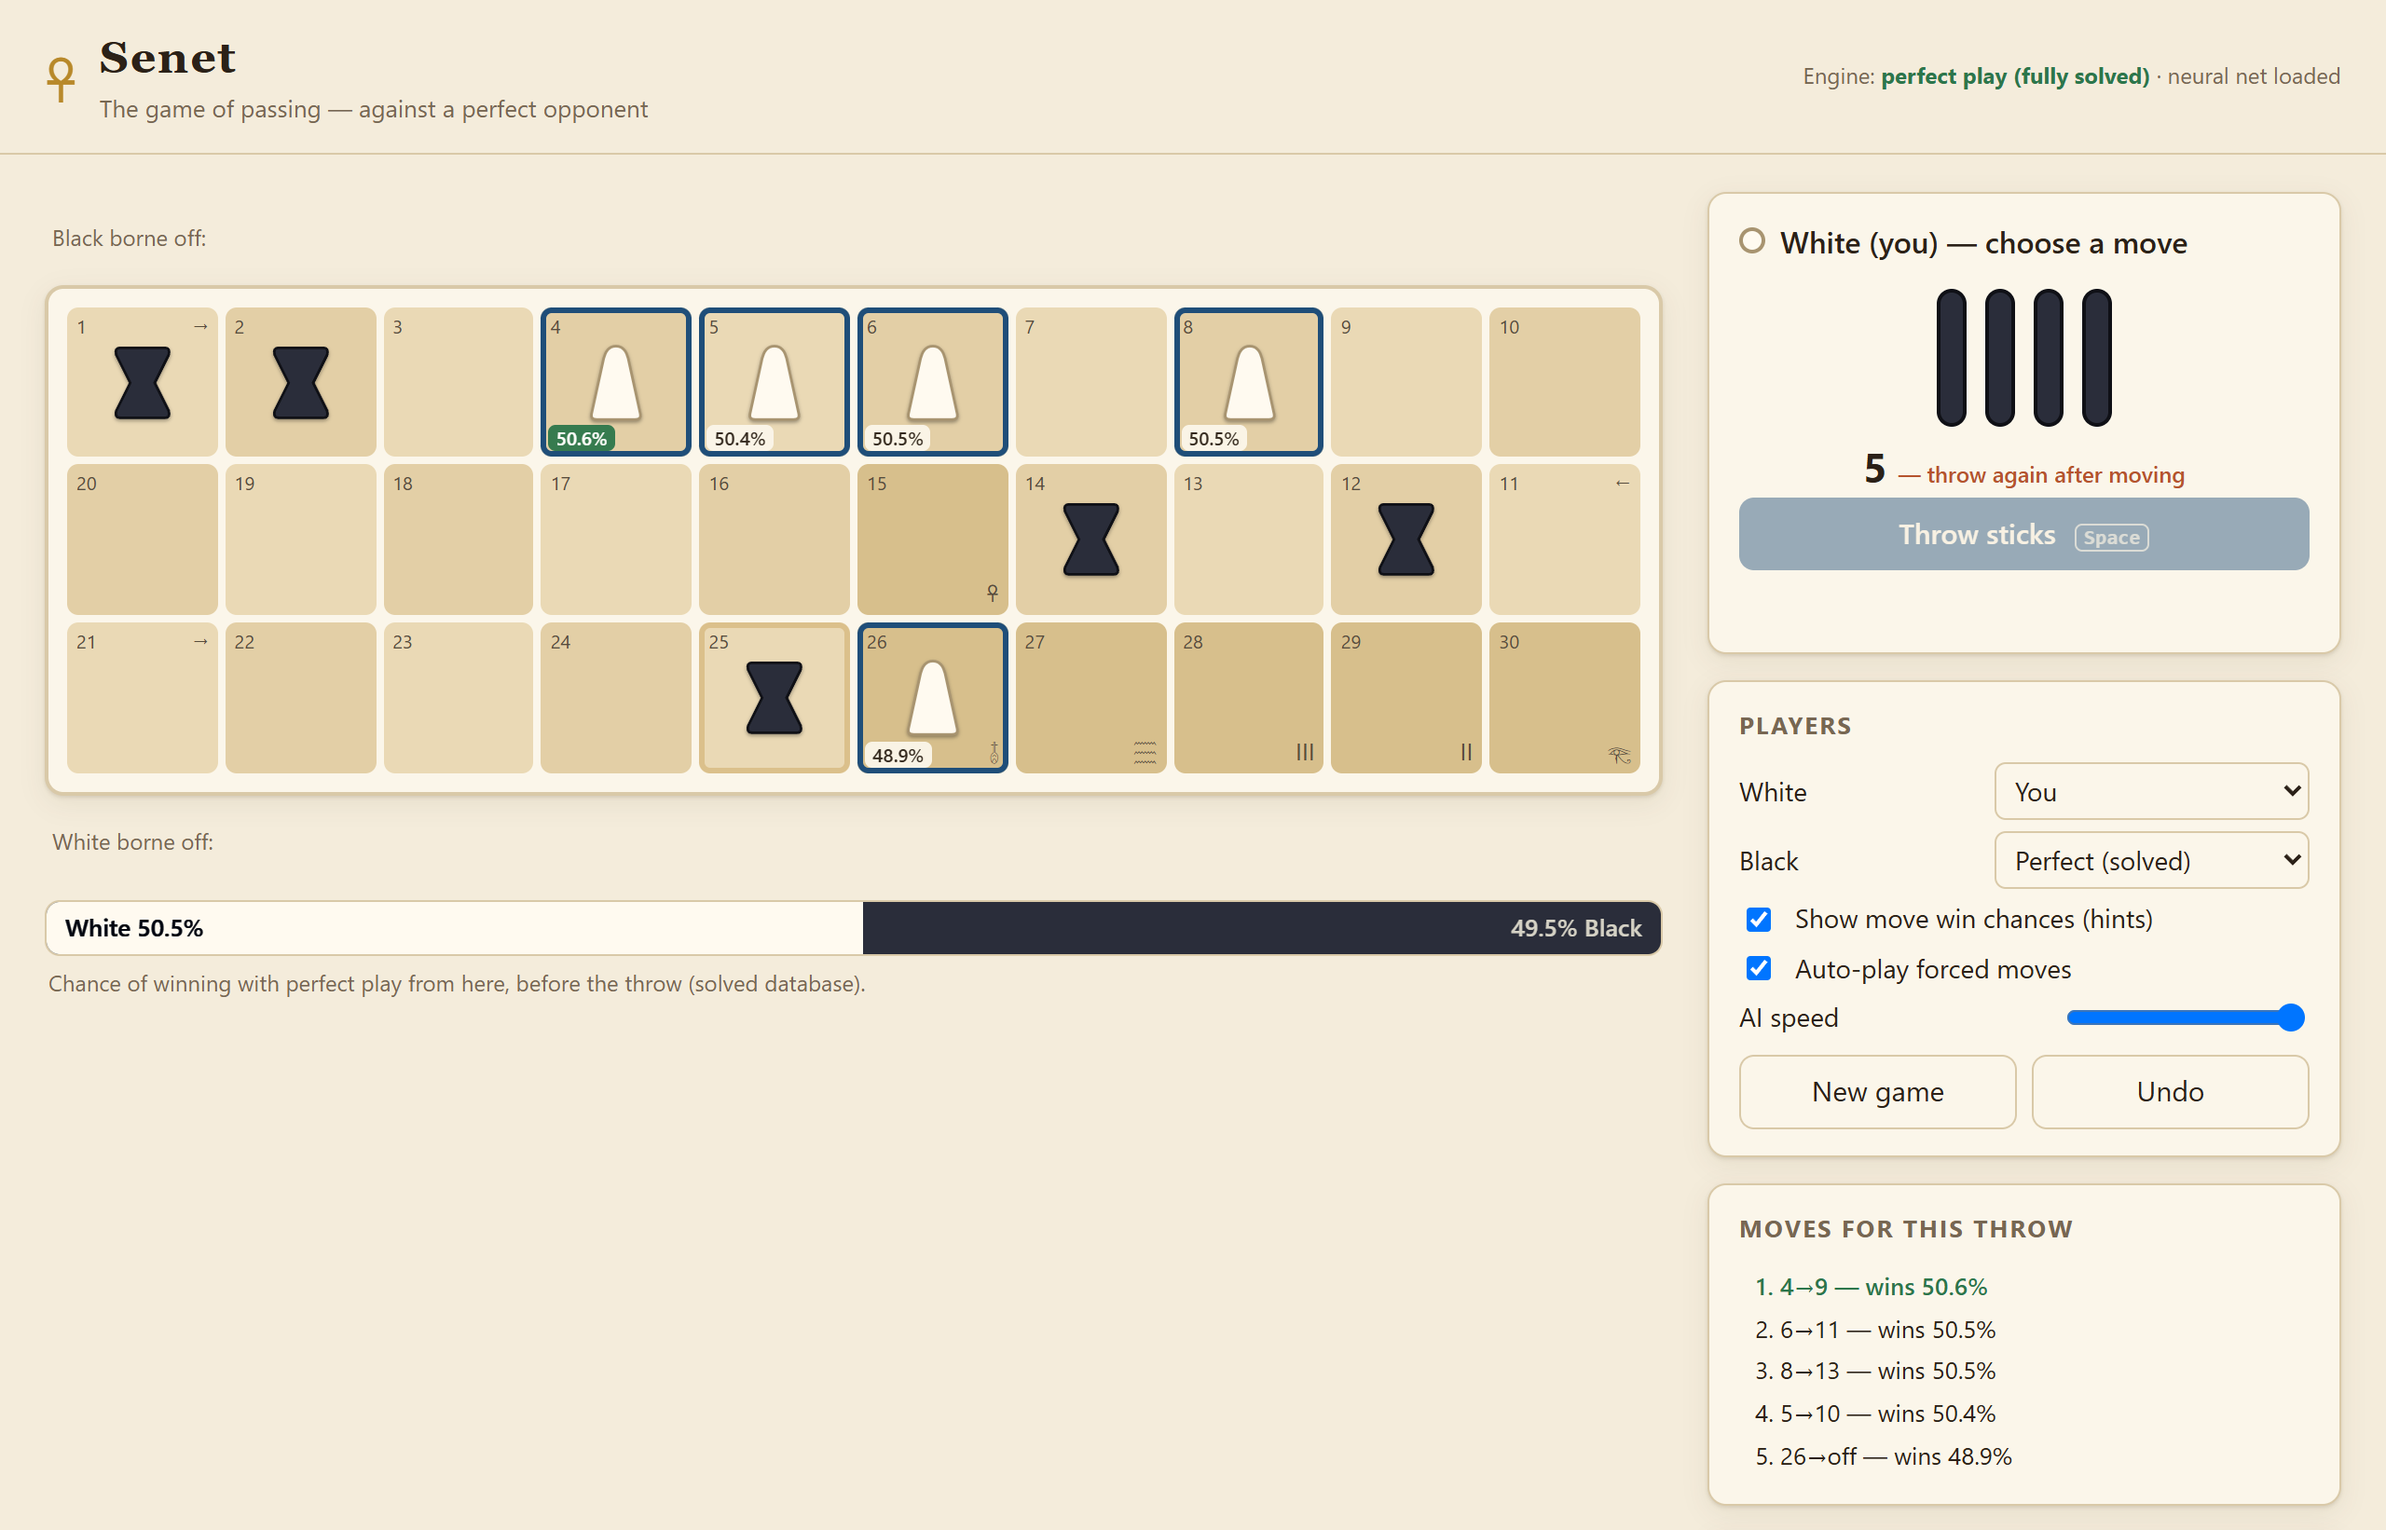
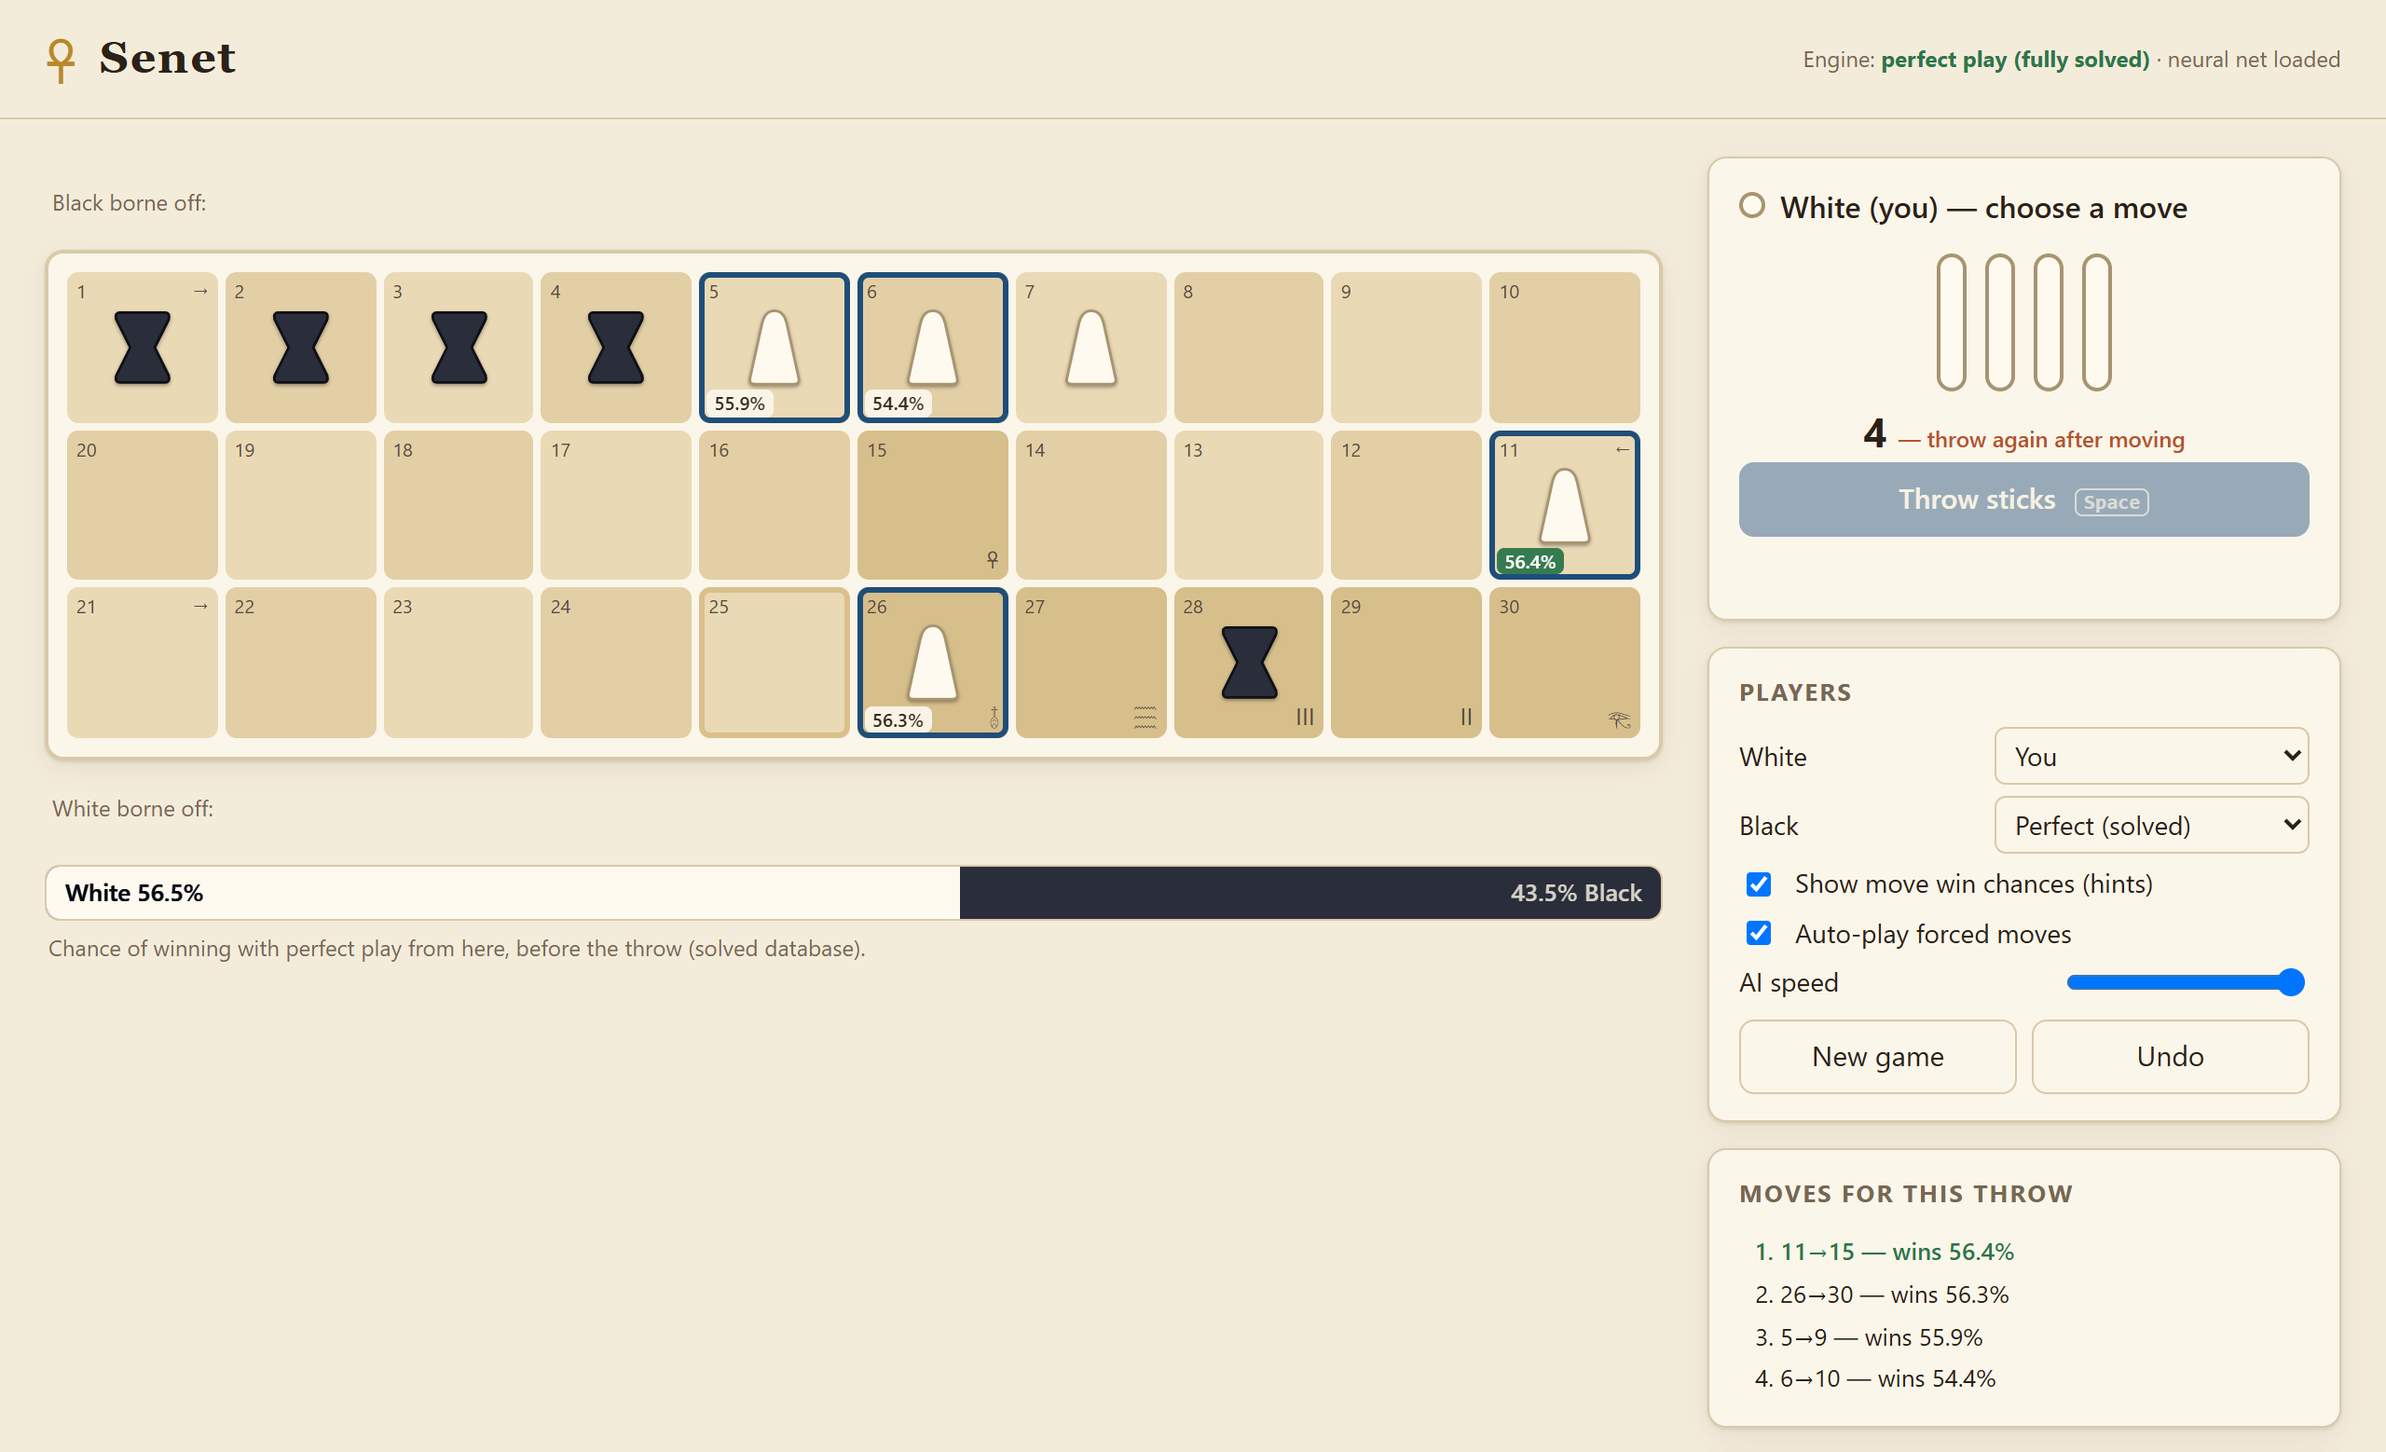
Web app: drop the header tagline and the portable page's engine label

diff --git a/web/portable/local-api.js b/web/portable/local-api.js
@@ -3,9 +3,9 @@
 // docs/API.md) for the portable single-file build: the distilled neural network (+ optional
 // 1-throw expectimax) replaces the solved database. Replies have the server's keys and errors
 // its messages (for a malformed body, only its "bad request: " prefix, and for an unknown
-// field the message without serde's position); /api/info adds `label` and `tagline` for the
-// page header. The random bot is seeded by `seed` (default 0, as on the server) but does not
-// reproduce the Rust RNG's choices. tools/check_local_api.mjs checks this against the server.
+// field the message without serde's position). The random bot is seeded by `seed` (default 0,
+// as on the server) but does not reproduce the Rust RNG's choices.
+// tools/check_local_api.mjs checks this against the server.
 (function () {
   const E = window.SenetEngine;
   let NET = null;
@@ -128,8 +128,6 @@
       start: { white: [1, 3, 5, 7, 9], black: [2, 4, 6, 8, 10], turn: "white" },
       throw_probs: Object.fromEntries(THROWS.map((t) => [t, E.THROW_PROBS[t]])),
       extra_throws: THROWS.filter((t) => E.EXTRA[t]),
-      label: "Portable AI: <b>distilled neural net</b>, running in your browser",
-      tagline: "The game of passing — against a neural net distilled from perfect play",
     };
   }
 

diff --git a/web/app.js b/web/app.js
@@ -623,16 +623,9 @@ function onKeyDown(e) {
   if (!e.repeat && canHumanThrow()) doThrow();
 }
 
-// The header's tagline: the strongest opponent the engine offers.
-function tagline() {
-  if (INFO.tagline) return INFO.tagline;
-  const opponent = INFO.database?.complete ? "a perfect opponent"
-    : INFO.network ? "a neural net distilled from perfect play" : "a heuristic search";
-  return `The game of passing — against ${opponent}`;
-}
-
+// The header's line about the server's engine. The portable build has no server and says nothing.
 function engineStatus() {
-  if (INFO.label) return INFO.label;
+  if (window.SENET_LOCAL_API) return "";
   const db = INFO.database;
   if (db) {
     const kind = db.complete ? "perfect play (fully solved)" : "partially solved database";
@@ -690,7 +683,6 @@ async function init() {
     showOffline();
     return;
   }
-  $("tagline").textContent = tagline();
   $("engine-status").innerHTML = engineStatus();
   setUpPlayers();
   bindControls();

diff --git a/web/style.css b/web/style.css
@@ -72,7 +72,6 @@ body {
 .brand { display: flex; align-items: center; gap: 12px; }
 .ankh { font-size: 34px; color: var(--gold); line-height: 1; }
 h1 { margin: 0; font-size: 24px; letter-spacing: 0.04em; font-family: Georgia, "Times New Roman", serif; }
-.tagline { margin: 0; color: var(--muted); font-size: 13px; }
 .engine { font-size: 12px; color: var(--muted); text-align: right; }
 .engine b { color: var(--good); }
 

diff --git a/web/index.html b/web/index.html
@@ -10,10 +10,7 @@
   <header class="top">
     <div class="brand">
       <span class="ankh" aria-hidden="true">☥</span>
-      <div>
-        <h1>Senet</h1>
-        <p class="tagline" id="tagline">The game of passing</p>
-      </div>
+      <h1>Senet</h1>
     </div>
     <div class="engine" id="engine-status">connecting…</div>
   </header>

diff --git a/docs/API.md b/docs/API.md
@@ -121,8 +121,7 @@ types, and its failures are exceptions with the server's messages (for a malform
 only the `bad request: ` prefix is the same, and for an unknown field all but the position
 serde appends). Otherwise it differs from the server in:
 
-* `/api/info`: `"database": null`, `"network": true`, the bots `net:1`, `net` and `random`,
-  and two more keys for the page header, `label` and `tagline`.
+* `/api/info`: `"database": null`, `"network": true`, and the bots `net:1`, `net` and `random`.
 * `/api/analyze`: the network answers whatever `eval` asks for (`"source": "net"`), and
   values moves with a 1-throw search, as `net:1` does, where the server evaluates the
   positions they lead to.
